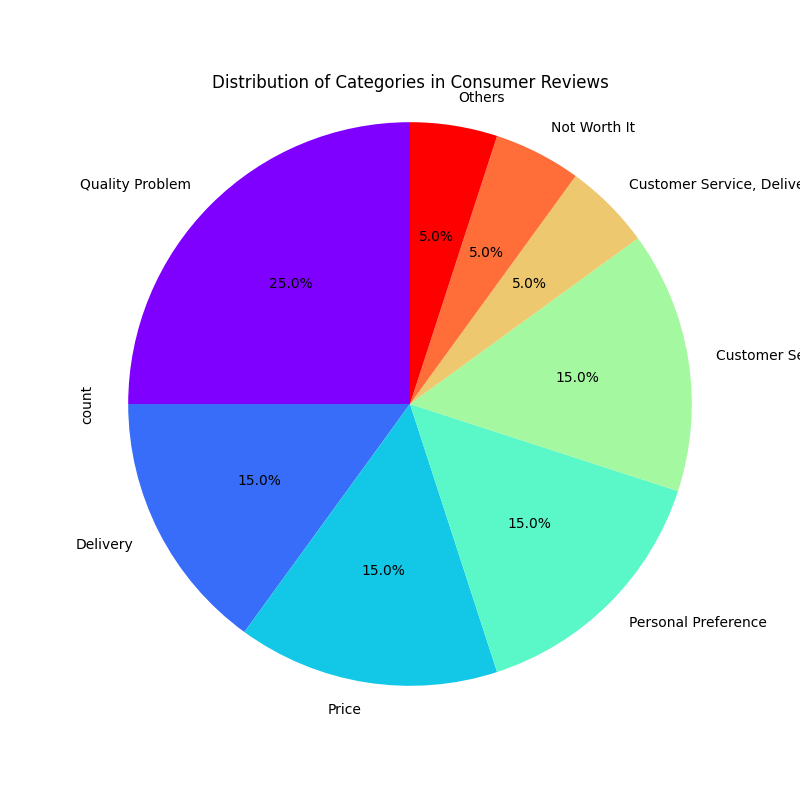
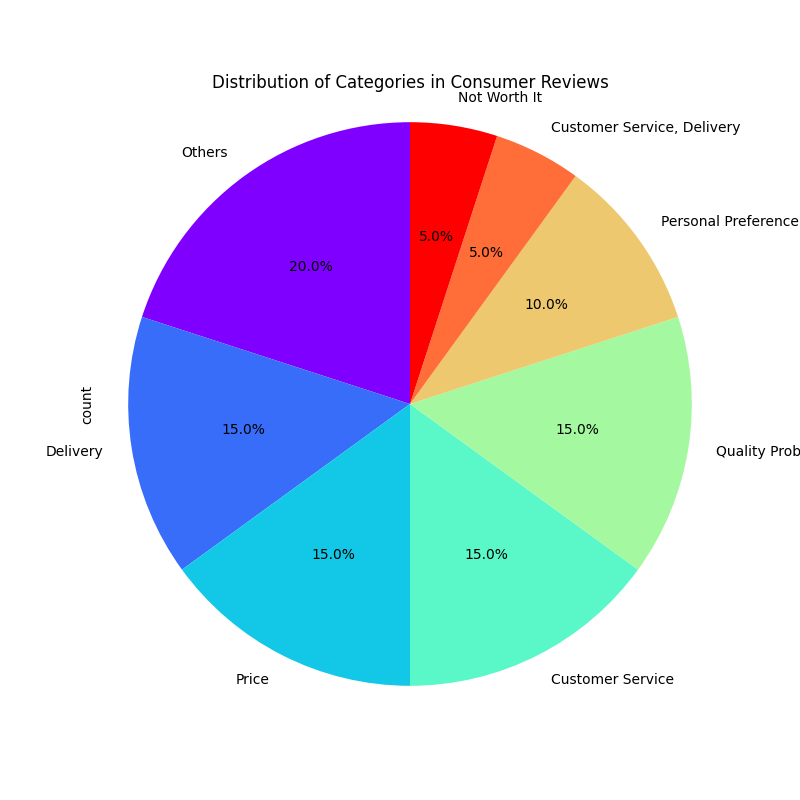
update
update alot

diff --git a/main.py b/main.py
@@ -33,7 +33,6 @@ def summarize_and_classify_reviews(input_text, model, tokenizer, max_new_tokens=
                              num_beams=5,  # Use beam search to optimize generation results  # 使用束搜索来优化生成结果
                              eos_token_id=tokenizer.eos_token_id,  # Define the end-of-sequence token  # 定义终止标志
                              pad_token_id=tokenizer.pad_token_id  # Define the padding token ID  # 填充token id
-
                              )
 
     # Decode the generated text
@@ -136,9 +135,6 @@ If you are unable to summarize the reason clearly, just respond with "Others".
 
 Please follow this exact format:
 
-Reason: [Your reason here]
-Category: [Your category here]
-
 For example
 Review: "I don’t like the color and feel of the product. It's just not what I imagined."
 Reason: The product didn’t meet my personal preferences.
@@ -178,7 +174,7 @@ if __name__ == "__main__":
 
     # model_path
     # 模型路径
-    model_path = "J:/my_models/gemma2_9b"
+    model_path = "J:/my_models/gemma2_2b"
 
     # Load the model and tokenizer
     # 加载模型和tokenizer
@@ -205,6 +201,8 @@ if __name__ == "__main__":
     # 打印结果以供检查
     print(results_df)
     results_df.to_csv("data/result_data.csv", index=False)
+
+    #results_df=pd.read_csv("data/result_data.csv")
 
     # Count the number of occurrences in each category
     # 统计各分类的数量

diff --git a/README.md b/README.md
@@ -1,49 +1,140 @@
 ### **README: Consumer Review Analysis System**
 
-This is a cutting-edge consumer review analyzer that leverages the latest advancements in AI technology. By utilizing a powerful large language model, it can extract valuable business insights from a massive volume of consumer reviews. With minimal adjustments, this tool is adaptable to nearly any business scenario. Whether it's improving product defects, analyzing customer feedback, understanding competitor advantages, or even discovering business opportunities through platforms like TikTok comments, this system opens doors to limitless possibilities. Think of it as a key to unlock new realms of business opportunities. All you need is a sufficiently powerful computer, and you can tap into low-cost commercial opportunity discovery—only requiring minimal electricity and time. In the past, such tasks would have demanded massive human resources, time, and capital. 
+This is a cutting-edge consumer review analyzer that leverages the latest advancements in AI technology. By utilizing a powerful large language model, it can extract valuable business insights from a massive volume of consumer reviews. With minimal adjustments, this tool is adaptable to nearly any business scenario.
 
-Please note: This project is a demonstration of my skills and is not licensed for commercial use without my permission. If you wish to use it commercially, you must obtain my consent.
+Whether it's improving product defects, analyzing customer feedback, understanding competitor advantages, or even discovering business opportunities through platforms like TikTok comments, this system opens doors to limitless possibilities. Think of it as a key to unlock new realms of business opportunities. All you need is a sufficiently powerful computer, and you can tap into low-cost commercial opportunity discovery—requiring only minimal electricity and time. In the past, such tasks would have demanded massive human resources, time, and capital.
 
-In the example provided, the program reads reviews from a CSV file and sends them to the Gemma2 language model for classification and analysis. The quality of the analysis largely depends on how you adjust the `task_prompt` and `category_reasons`, as well as the quality of your data. `task_prompt` defines the model's instructions and clear guidance significantly enhances the model's ability to respond accurately. `category_reasons` represents the set of categories you want to classify, such as product quality issues, logistics problems, and more. If the model identifies a reason outside the provided `category_reasons`, it will automatically add a new reason to the list. This type of AI-powered analysis was unimaginable just a few years ago and is now a breakthrough technology. 
+> **Please Note:**  
+This project is a demonstration of my skills and is not licensed for commercial use without my permission. If you wish to use it commercially, you must obtain my consent.
 
-Since the system is built on the Hugging Face library, you can easily switch to other public language models with minimal changes. However, if your data quality is poor—so poor that even a human would struggle to make sense of the answers—it's recommended to use the latest GPT models, although they can be very costly for large datasets.
+---
 
-Here is a preview of some summarized data analyzed by 2B model:
-![images](images/text_2b_model_p2.png)
-And the 9B model：![images](images/text_9b_model.png)
+### **Example Workflow**
 
-For a detailed overview, refer to the `result_data_2Bmodel.csv`  and `result_data_9Bmodel.csv` file in the `data` directory. It’s worth noting that the original `category_reasons` didn’t provide a category for design flaws, but the AI still identified and added it to the summary. This is an exciting result! Imagine the potential commercial value that could be unlocked with the right data and team to outpace your competitors.
+In the example provided, the program reads reviews from a CSV file and sends them to the **Gemma2 language model** for classification and analysis. The quality of the analysis largely depends on:
+- How you adjust the `task_prompt` and `category_reasons`.
+- The quality of your data.
 
-In principle, larger models yield better results. However, due to my limited computing power, I can only demonstrate the 2B and 9B versions. 
+#### Key Components:
+- **`task_prompt`:**  
+   Defines the model's instructions. Clear guidance significantly enhances the model's ability to respond accurately.
 
-Due to the complexity of the Hugging Face installation tutorial and the abundance of resources available online, this project will not elaborate on the installation process.
+- **`category_reasons`:**  
+   Represents the set of categories you want to classify (e.g., product quality issues, logistics problems, etc.).  
+   If the model identifies a reason outside the provided `category_reasons`, it will automatically add a new reason to the list.
+
+This type of AI-powered analysis was unimaginable just a few years ago and is now a breakthrough technology.
+
+---
+
+### **Model Adaptability**
+
+Since the system is built on the **Hugging Face library**, you can easily switch to other public language models with minimal changes. However:
+- If your data quality is poor—so poor that even a human would struggle to make sense of it—it is recommended to use the latest GPT models.
+- Be mindful that GPT models can be very costly for large datasets.
+
+---
+
+### **Output and Performance**
+
+Below are previews of some summarized data analyzed by different models:
+
+#### **2B Model Output:**
+![2B Model Output](images/text_2b_model.png)
+
+#### **9B Model Output:**
+![9B Model Output](images/text_9b_model.png)
+
+For a detailed overview, refer to the following files in the `data` directory:
+- `result_data_2Bmodel.csv`
+- `result_data_9Bmodel.csv`
+
+> Noteworthy Result:  
+The original `category_reasons` didn’t provide a category for "design flaws," but the AI still identified and added it to the summary. This demonstrates the system's flexibility and intelligence. Imagine the potential commercial value that could be unlocked with the right data and team to outpace your competitors.
+
+#### **Model Size and Performance:**
+- In principle, **larger models yield better results.**
+- Due to limited computing power, this project only demonstrates the **2B** and **9B** versions.
+
+---
+
+### **Installation Notes**
+
+Due to the complexity of the Hugging Face installation tutorial and the abundance of resources available online, this project does not elaborate on the installation process.
+
 ---
 
 ### **Contact Information**
 
-**Email**: 402868327@qq.com
+**Email:** 402868327@qq.com
 
 ---
 
 ### **README: 消费者评论分析系统**
 
-这是一个结合现代最新AI科技结晶的消费者评论分析器。它利用强大的大语言模型，从大量的消费者评价中提取有价值的商业洞察。经过少量的调整，该工具可以适用于几乎任何商业场景。无论是改进产品缺陷、分析消费者反馈、了解竞争对手优势，还是通过Tiktok评论发掘商业机会，这个系统都能为你打开无限的商业机会大门。可以说，它是通往新商业世界的钥匙。只需要一台足够强劲的电脑，你就可以进行低成本的商业机会发掘，所需的成本仅仅是少量的电费和一定的时间，过去这一切可能需要大量的人工、时间和资金。
+这是一个结合现代最新 AI 科技结晶的消费者评论分析器。它利用强大的大语言模型，从大量的消费者评价中提取有价值的商业洞察。经过少量的调整，该工具可以适用于几乎任何商业场景。
 
-请注意：该项目为技能展示项目，未经我的许可不得商用。如需商用，请先与我取得同意。
+无论是改进产品缺陷、分析消费者反馈、了解竞争对手优势，还是通过 TikTok 评论发掘商业机会，这个系统都能为你打开无限的商业机会大门。可以说，它是通往新商业世界的钥匙。只需要一台足够强劲的电脑，你就可以进行低成本的商业机会发掘，所需的成本仅仅是少量的电费和一定的时间——过去这一切可能需要大量的人工、时间和资金。
 
-在示例中，程序会从CSV文件中读取评论，并将其传送给Gemma2大语言模型进行分类和分析。分析质量取决于你对`task_prompt`和`category_reasons`的调整，以及数据的质量。`task_prompt`是你对模型的提示说明，清晰的表述能够帮助模型更好地理解并给出准确的回答。`category_reasons`则是你需要归纳总结的分类提示，比如产品质量问题、物流问题等。如果模型识别出的原因不在`category_reasons`的范围内，它会自动将新原因添加到列表中。这在过去几年前几乎是无法想象的黑科技。
+> **请注意：**  
+该项目为技能展示项目，未经我的许可不得商用。如需商用，请先与我取得同意。
 
-由于该系统基于Hugging Face库，你可以轻松切换到其他公开的大语言模型，只需要做少量修改。然而，如果你的数据质量非常糟糕，以至于即使是人类也难以理解答案，建议使用最新的GPT模型，尽管对于大规模数据集来说，使用GPT模型的费用非常高。
+---
 
-以下是部分用2B模型进行分析的总结数据的展示: ![images](images/text_2b_model_p2.png)。
-9B数据模型展示![images](images/text_9b_model.png)
-详细的汇总请参考`data`目录下的`result_data_2Bmodel.csv`和`result_data_9Bmodel.csv`文件。值得注意的是，原始的`category_reasons`并没有提供“设计缺陷”的分类，但AI仍然识别并将其添加到后续总结中。这是一个令人兴奋的结果！可以想象，拥有适当的数据和团队支持时，能够创造出多大的商业价值，轻松打败你的竞争对手。
+### **示例工作流程**
 
-原则上，模型越大，结果越好。由于我的计算能力有限，目前只能演示2B和9B版本。
+在示例中，程序会从 CSV 文件中读取评论，并将其传送给 **Gemma2 大语言模型** 进行分类和分析。分析质量取决于：
+- 你对 `task_prompt` 和 `category_reasons` 的调整。
+- 数据的质量。
 
-由于hugging face安装教程繁琐并且网上到处都有，所以本项目不过多赘述安装教程。
+#### 关键组成部分：
+- **`task_prompt`：**  
+   这是你对模型的提示说明，清晰的表述能够帮助模型更好地理解并给出准确的回答。
+
+- **`category_reasons`：**  
+   你需要归纳总结的分类提示，例如产品质量问题、物流问题等。  
+   如果模型识别出的原因不在 `category_reasons` 范围内，它会自动将新原因添加到列表中。
+
+这在过去几年几乎是无法想象的黑科技。
+
+---
+
+### **模型适配性**
+
+由于该系统基于 **Hugging Face 库**，你可以轻松切换到其他公开的大语言模型，只需要做少量修改。然而：
+- 如果数据质量非常糟糕（即使人类也难以理解），建议使用最新的 GPT 模型，尽管其费用对大规模数据集来说非常高。
+
+---
+
+### **输出和性能**
+
+以下是部分数据的展示：
+
+#### **2B 模型输出:**
+![2B 数据模型](images/text_2b_model_p2.png)
+
+#### **9B 模型输出:**
+![9B 数据模型](images/text_9b_model.png)
+
+详细的汇总请参考 `data` 目录下的以下文件：
+- `result_data_2Bmodel.csv`
+- `result_data_9Bmodel.csv`
+
+> 值得注意的结果：  
+原始的 `category_reasons` 并没有提供“设计缺陷”的分类，但 AI 仍然识别并将其添加到后续总结中。这是一个令人兴奋的结果！拥有适当的数据和团队支持时，可以轻松打败你的竞争对手。
+
+#### **模型规模与性能：**
+- 原则上，**模型越大，结果越好。**
+- 由于计算能力有限，目前仅演示了 **2B** 和 **9B** 版本。
+
+---
+
+### **安装说明**
+
+由于 Hugging Face 安装教程繁琐且网上资源丰富，本项目不过多赘述安装过程。
+
 ---
 
 ### **联系方式**
 
-**邮箱**：402868327@qq.com
+**邮箱：** 402868327@qq.com
